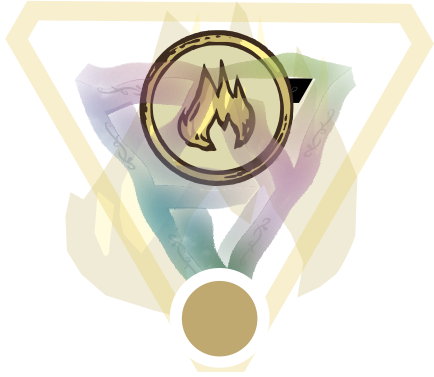
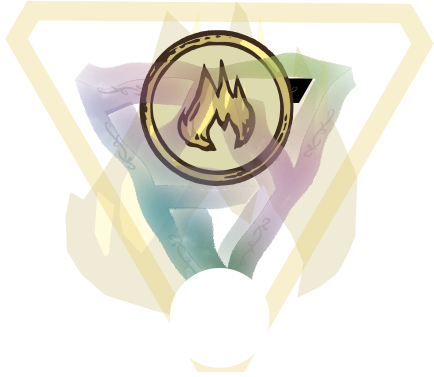
try static images to see if they are faster to render in chrome on android

Changed region(s): [[0.4194, 0.7294, 0.5991, 0.9629]]

diff --git a/apps/web/src/components/SkillButton.svelte b/apps/web/src/components/SkillButton.svelte
@@ -96,11 +96,26 @@
     src="{imageURL}"
   />
   {:else}
-  <img
-    style="{styleTokens}"
-    class="skill-medal"
-    src="{imageURLProgress(progress, levels, completed)}"
-  >
+  <svg viewBox="0 0 114.84995 99.819198">
+    <image
+      style="{styleTokens}"
+      class="skill-medal"
+      height="100%"
+      width="100%"
+      href="{imageURLProgress(progress, levels, completed)}"
+    />
+    <g>
+    <circle
+      stroke-width="10"
+      stroke-dasharray="{2 * Math.PI * 10 * progress / levels / 2}, {2 * Math.PI * 10 * (1 - progress / levels) / 2}"
+      id="progress-arc"
+      cx="58.228191"
+      cy="84.267816"
+      r="5"
+      style="fill:none;stroke:#e5c85a;"
+    />
+    </g>
+  </svg>
   {/if}
   {/if}
   <h2>{title}</h2>

diff --git a/apps/web/static/images/flatten-skill-button.py b/apps/web/static/images/flatten-skill-button.py
@@ -20,16 +20,20 @@ for stage in range(6):
             solid.set('display', 'none')
         else:
             rainbow.set('display', 'none')
+    progress_arc = find_by_id(root, 'progress-arc')
+    progress_arc.set('style', 'display:none')
     completed_layer = find_by_id(root, 'complete')
     completed_layer.set('style', 'display: none')
-    ET.ElementTree(root).write(f'{fileroot}-{stage}.svg')
+    ET.ElementTree(root).write(f'{fileroot}-stage-{stage}.svg')
     os.system(f'convert -background none {fileroot}-stage-{stage}.svg {fileroot}-stage-{stage}.png')
 
 for i in range(1, 6):
     root = get_fresh_svg()
     rainbow = find_by_id(root, f'rainbow-{i}')
+    progress_arc = find_by_id(root, 'progress-arc')
     solid = find_by_id(root, f'solid-{i}')
     solid.set('display', 'none')
+    progress_arc.set('style', 'display:none')
     rainbow.set('display', 'none')
     ET.ElementTree(root).write(f'{fileroot}-complete.svg')
     os.system(f'convert -background none {fileroot}-complete.svg {fileroot}-complete.png')
